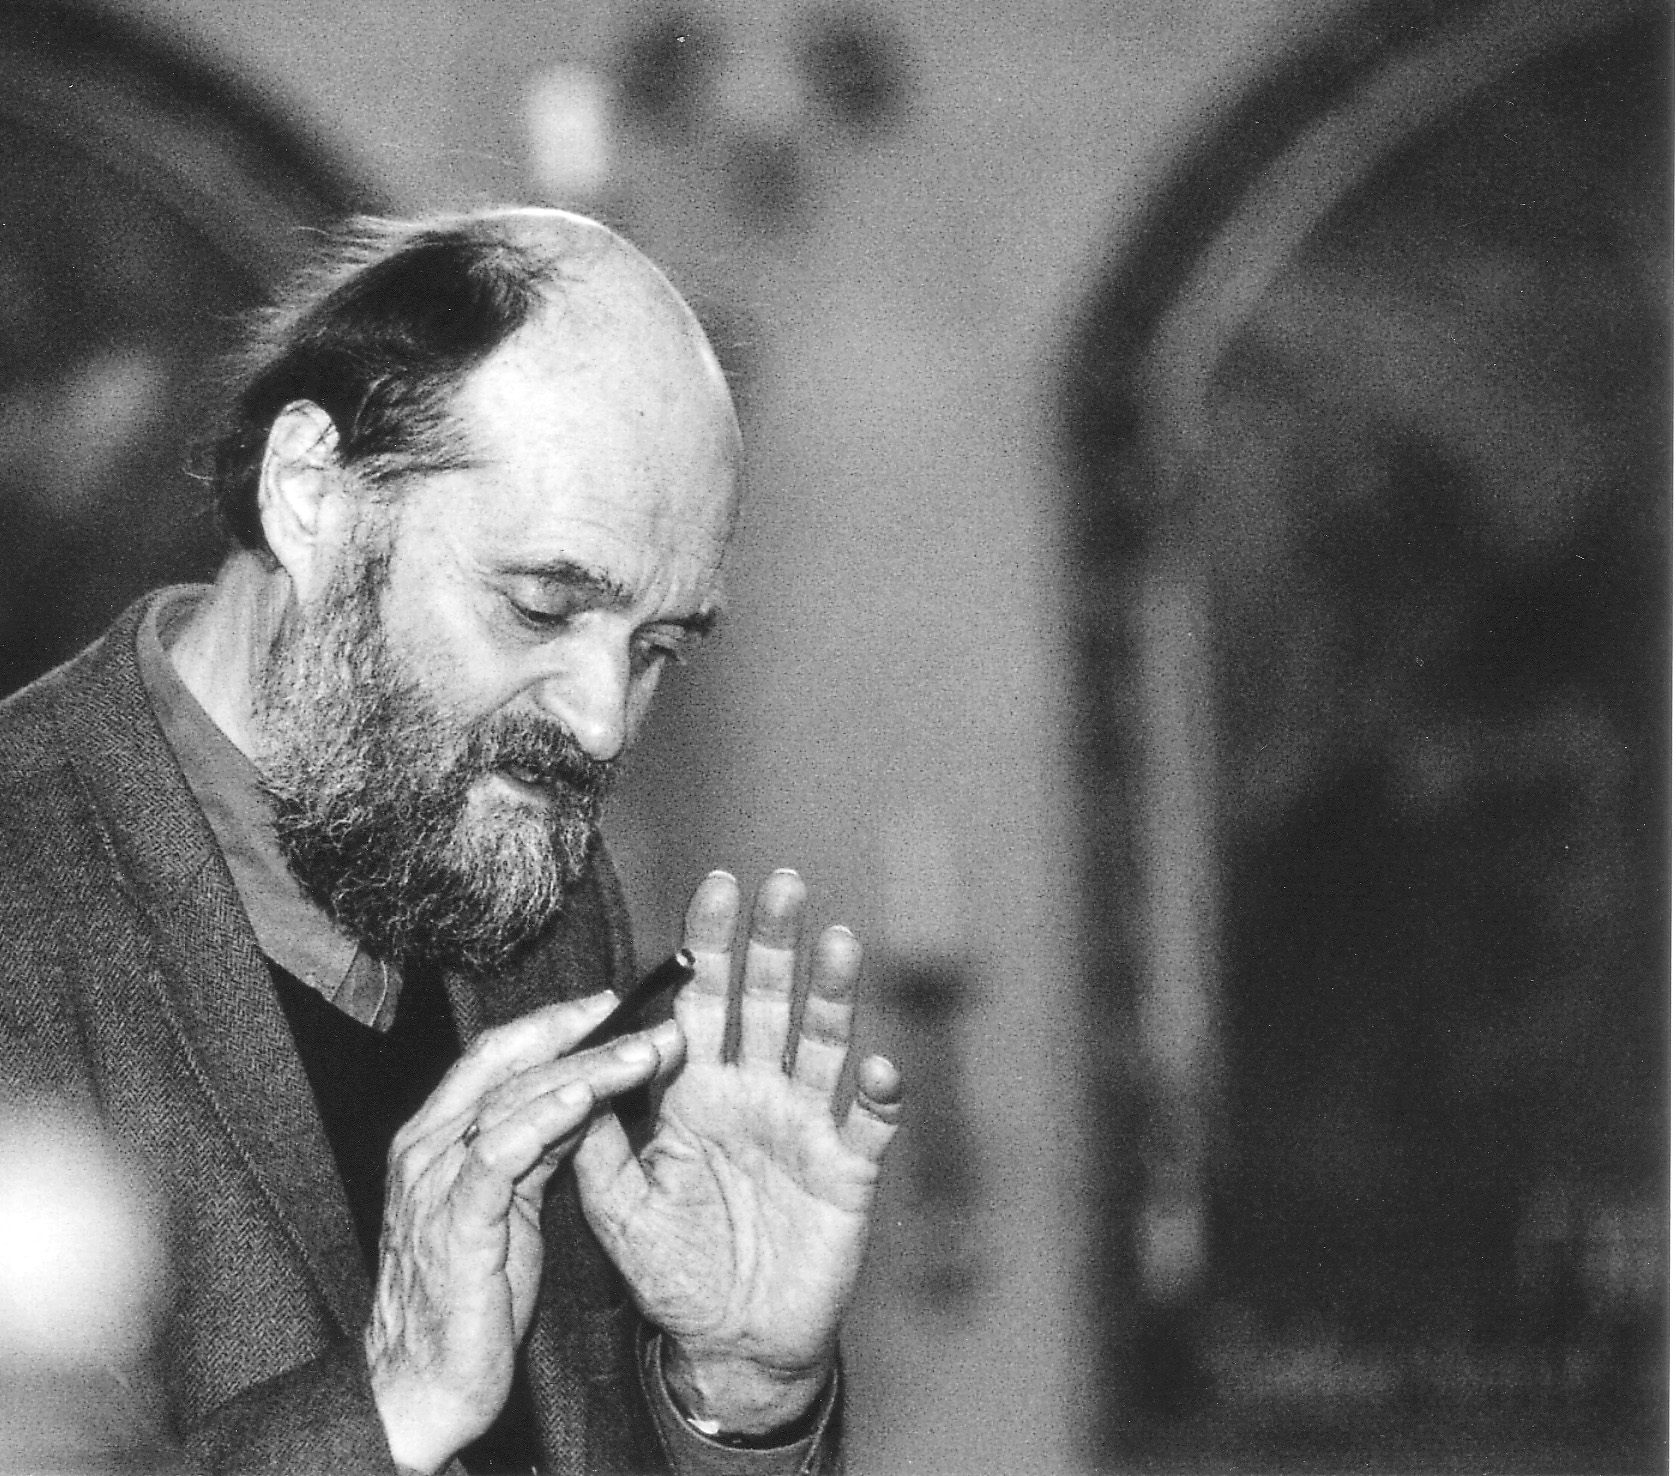
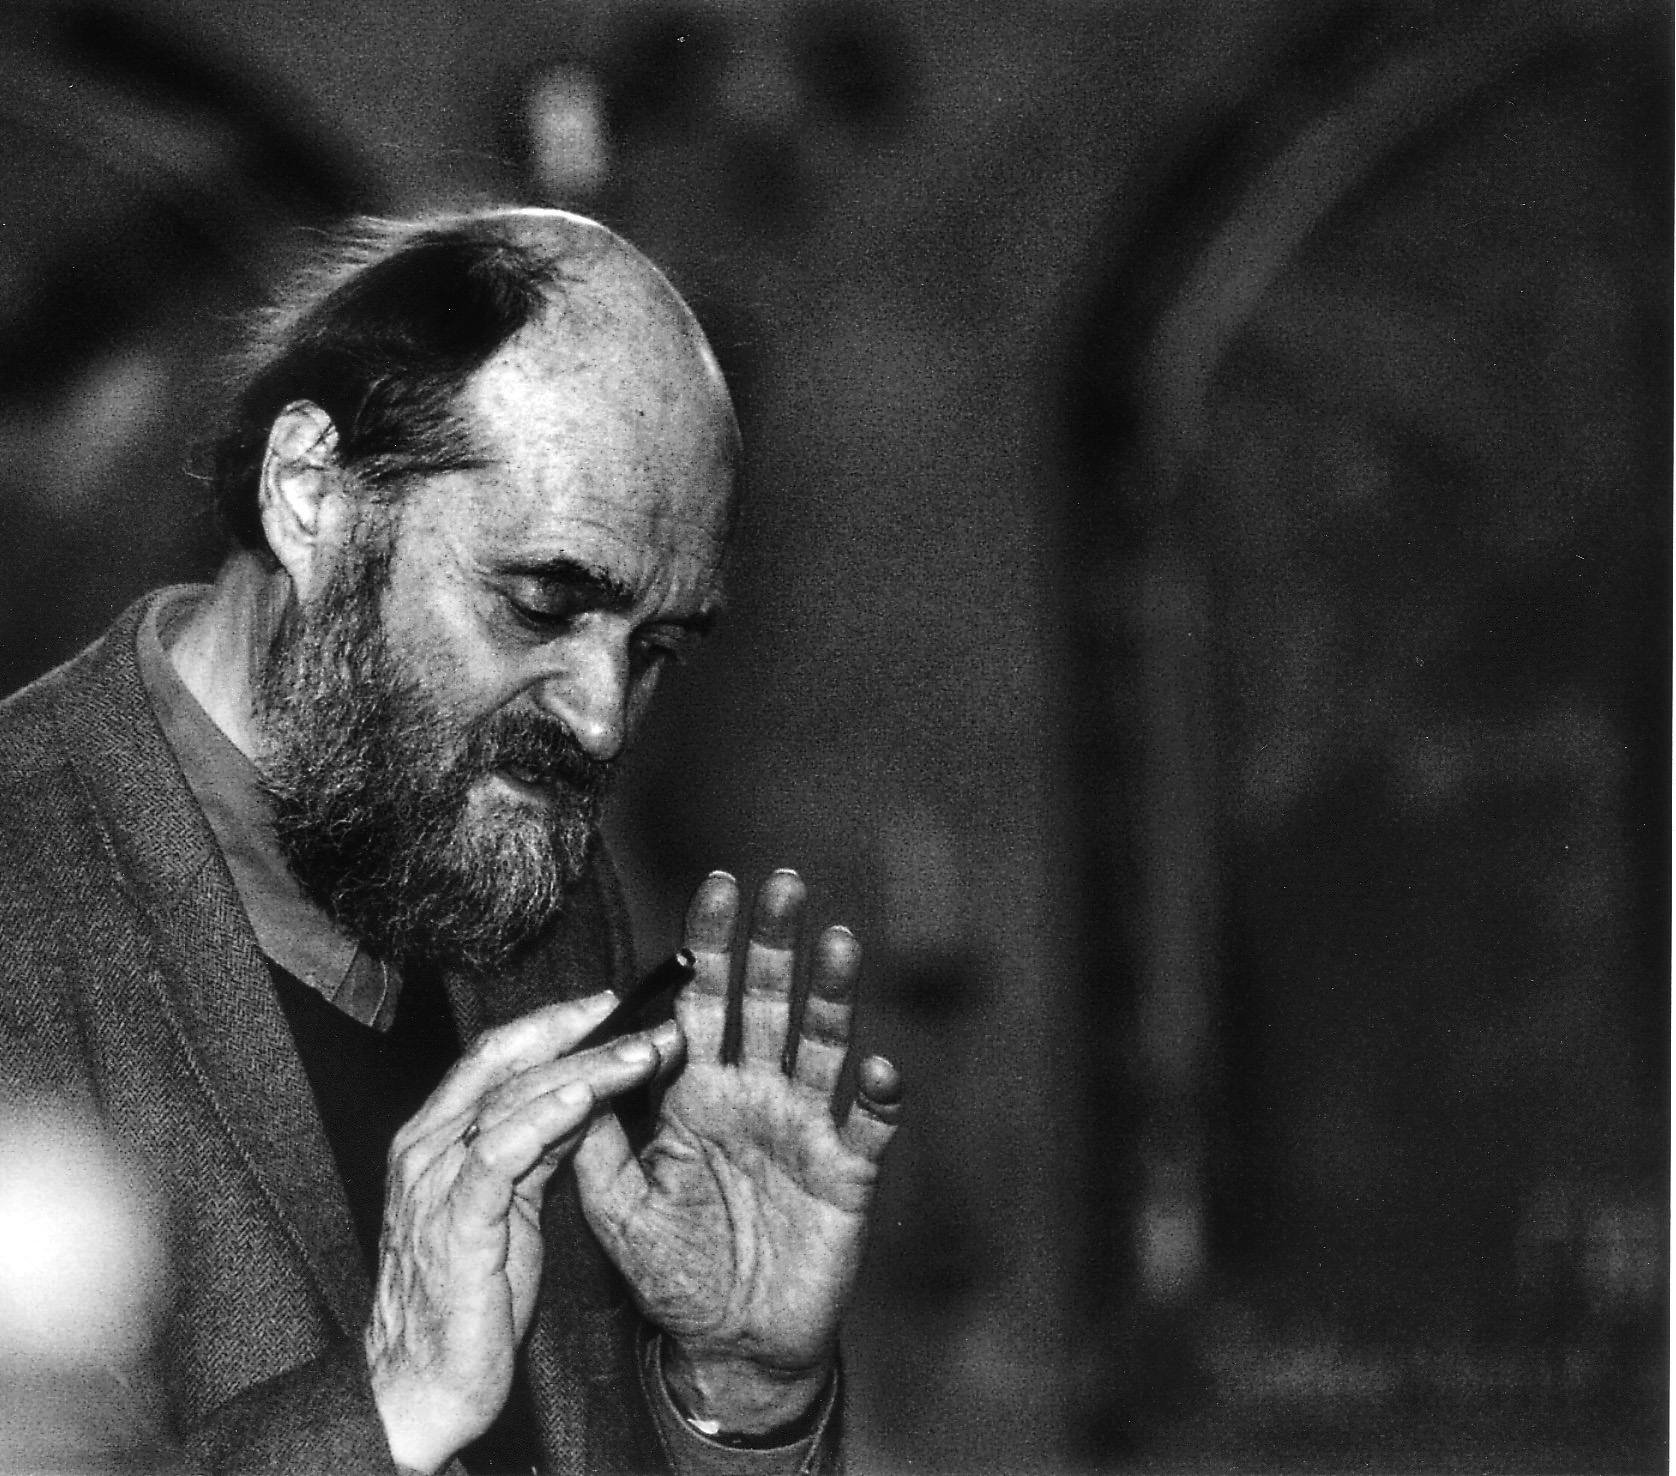
dark background

diff --git a/css/main.css b/css/main.css
@@ -63,10 +63,13 @@ h2 {
    background-color: rgba(0,0,0,0.5);
    margin-left: 20px;
    margin-right: 20px;
-   margin-bottom: 15px;
+   margin-bottom: 10px;
 }
 .review{
-   padding: 20px;
+   padding-left: 20px;
+   padding-right: 20px;
+   padding-bottom: 10px;
+   padding-top: 10px;
    background-color: rgba(0,0,0,0.5);
    font-size: .7rem;
    line-height: 15px;
@@ -82,9 +85,10 @@ p:nth-of-type(8) {
 div:nth-of-type(2) {
    width: 30%;
    float:left;
+
 }
 div:nth-of-type(3) {
-   width: 55%;
+   width: 57%;
    float: right;
 
 }
